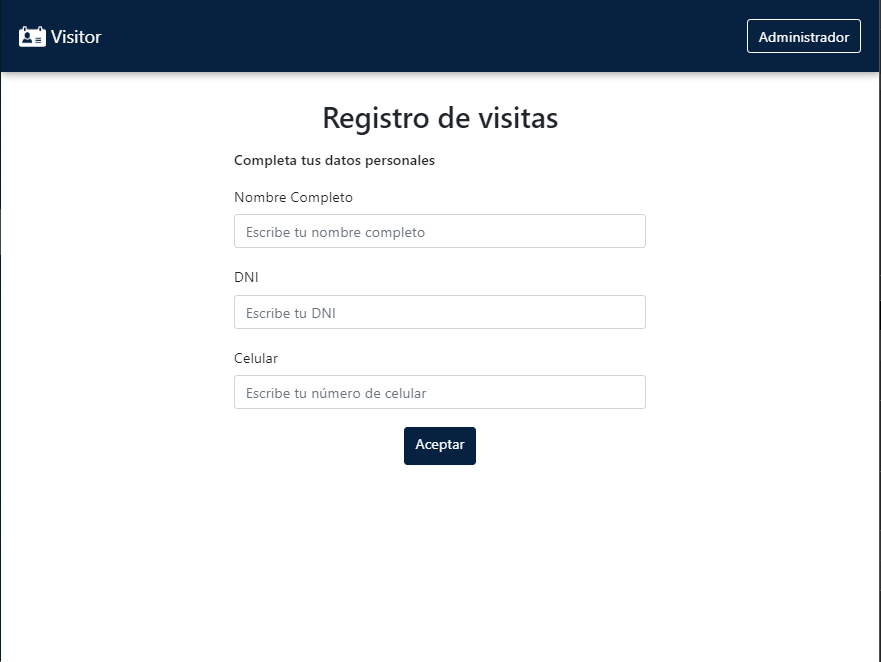
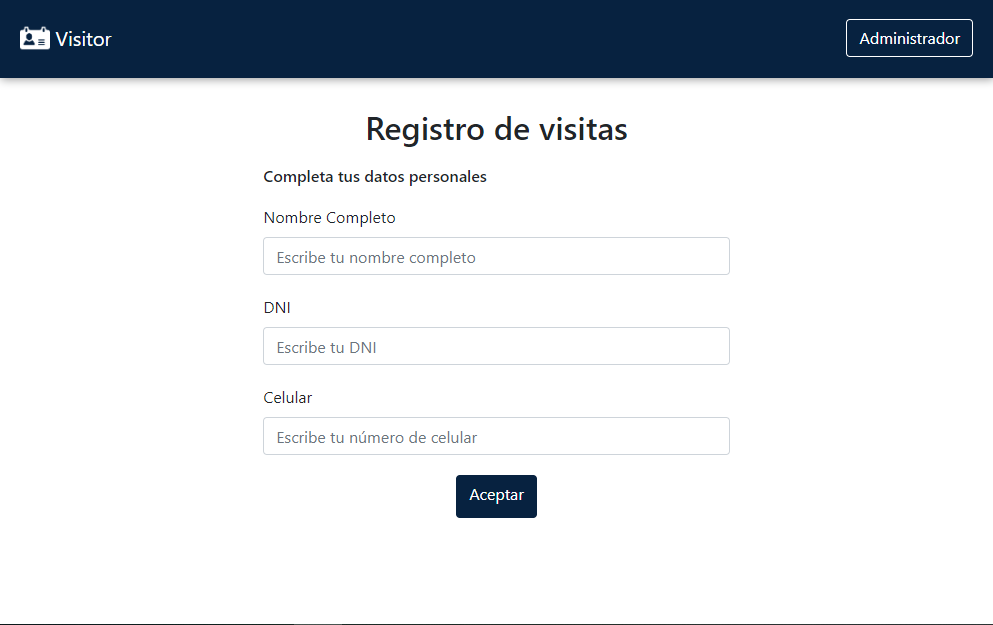
remodelado de portafolio

diff --git a/index.html b/index.html
@@ -14,6 +14,7 @@
 </head>
 
 <body>
+	<!-- navbar -->
 	<div class="navbar-fixed">
 		<nav>
 			<div class="nav-wrapper">
@@ -29,7 +30,7 @@
 	</div>
 
 	<!-- version mobile -->
-	<ul class="sidenav" id="mobile-demo">
+	<ul class="sidenav blue-grey darken-2 center" id="mobile-demo">
 		<a href="#!" class="brand-logo-mobile"><img class="img-logo-mobile" src="usb.png" alt=""></a>
 		<h4>Anaflavia</h4>
 		<li><a href="#portfolio">Portafolio</a></li>
@@ -38,41 +39,52 @@
 	</ul>
 
 	<header>
-		<div class="parallax-container">
+		<div class="background-main">
+			<!-- <div class=""></div>
+					<h1>ANAFLAVIA</h1>
+					<h2>Front-end Developer</h2>
+				</div> -->
+		</div>
+		<!-- <div class="parallax-container">
 			<div class="presentation">
 				<h1>ANAFLAVIA</h1>
 				<h2>Front-end Developer</h2>
 			</div>
-			<div class="parallax"> <img src="assets/background/business.jpeg"></div>
-		</div>
+			<div class="parallax"> <img src="https://user-images.githubusercontent.com/15807118/45848094-d6674600-bcf2-11e8-8787-25df72d563ce.jpg"></div>
+		</div> -->
 	</header>
 
-	<aside class="secondary-color" id="portfolio">
-		<div class="title container">
-			<h1>Portafolio</h1>
+	<section id="portfolio">
+		<div class="container">
+			<h2>Portafolio</h2>
 		</div>
 		<!-- salutem -->
-		<div class="container proy row">
-			<div class="content-img-proy col s6">
-				<img class="screen-mobile" src="assets/projectsindevices/salutem-mobile.png" alt="salutem">
+		<div class=" proy row">
+			<div class="col s12 l7 center">
+				<img class="screen-desktop" src="assets/projectsindevices/anaflavia.png" alt="salutem">
+				<ul class="pagination">
+					<li class="spaces-left">Firebase</li>
+					<li class="spaces-left">Materialize</li>
+					<li class="spaces-left">Javascript</li>
+				</ul>
 			</div>
-			<div class="description-proy">
+			<div class="col s12 l5 center">
 				<h4>Salutem</h4>
 				<h5>Una red social que nace de la necesidad de compartir experiencias sobre temas salud.
 				</h5>
 				<div class="buttons-show-proy">
-					<button class="btn btn-large waves-effect waves-light primary-color left" type="button" name="action">
+					<button class="btn btn-large waves-effect waves-light bg-primary" type="button" name="action">
 						<i class="material-icons">remove_red_eye</i>
 					</button>
-					<button class="btn btn-large waves-effect waves-light primary-color right" type="button" name="action">
+					<button class="btn btn-large waves-effect waves-light bg-primary" type="button" name="action">
 						<i class="material-icons">code</i>
 					</button>
 				</div>
 			</div>
 		</div>
 		<!-- foodmap -->
-		<div class="container proy row">
-			<div class="content-img-proy col s6">
+		<div class=" proy row">
+			<div class="content-img-proy col s12 l6">
 				<img class="screen-mobile" src="assets/projectsindevices/foodmap-mobile.png" alt="foodmap">
 			</div>
 			<div class="description-proy">
@@ -81,38 +93,38 @@
 					especialidades.
 				</h5>
 				<div class="buttons-show-proy">
-					<button class="btn btn-large waves-effect waves-light primary-color" type="button" name="action">
+					<button class="btn btn-large waves-effect waves-light bg-primary" type="button" name="action">
 						<i class="material-icons">remove_red_eye</i>
 					</button>
-					<button class="btn btn-large waves-effect waves-light primary-color" type="button" name="action">
+					<button class="btn btn-large waves-effect waves-light bg-primary" type="button" name="action">
 						<i class="material-icons">code</i>
 					</button>
 				</div>
 			</div>
 		</div>
 		<!-- visitor -->
-		<div class="container proy row">
-			<div class="content-img-proy col s6">
-				<img class="screen-mobile" src="assets/projectsindevices/visitor-mobile.png" alt="visitor">
+		<div class=" proy row">
+			<div class="content-img-proy col s12 l6">
+				<img class="screen-desktop" src="assets/projectsindevices/visitor-desktop.png" alt="visitor">
 			</div>
 			<div class="description-proy">
 				<h4>Visitor</h4>
 				<h5>Registro de Visitantes para la recepción de Comunal Coworking de Barranco.
 				</h5>
 				<div class="buttons-show-proy">
-					<button class="btn btn-large waves-effect waves-light primary-color" type="button" name="action">
+					<button class="btn btn-large waves-effect waves-light bg-primary" type="button" name="action">
 						<i class="material-icons">remove_red_eye</i>
 					</button>
-					<button class="btn btn-large waves-effect waves-light primary-color" type="button" name="action">
+					<button class="btn btn-large waves-effect waves-light bg-primary" type="button" name="action">
 						<i class="material-icons">code</i>
 					</button>
 				</div>
 			</div>
 		</div>
 		<!-- edutic -->
-		<div class="container proy row">
-			<div class="content-img-proy col s6">
-				<img class="screen-mobile" src="assets/projectsindevices/edutic-mobile.png" alt="">
+		<div class=" proy row">
+			<div class="content-img-proy col s12 l6">
+				<img class="screen-mobile" src="assets/projectsindevices/edutic-mobile.png" alt="edutic">
 			</div>
 			<div class="description-proy">
 				<h4>EduTic</h4>
@@ -120,7 +132,7 @@
 					y tendencias.
 				</h5>
 				<div class="buttons-show-proy">
-					<button class="btn btn-large waves-effect waves-light primary-color" type="button" name="action">
+					<button class="btn btn-large waves-effect waves-light bg-primary" type="button" name="action">
 						<i class="material-icons">remove_red_eye</i>
 					</button>
 					<button class="btn btn-large waves-effect waves-light primary-color" type="button" name="action">
@@ -129,11 +141,37 @@
 				</div>
 			</div>
 		</div>
-	</aside>
+	</section>
 
-	<aside id="skills">
-
-	</aside>
+	<section class="bg-secondary" id="skills">
+		<div class="list-skills container">
+			<h2>Habilidades</h2>
+			<div class="unity">
+				<img src="assets/icons-skills/handshake.png" alt="">
+				<h5>Compromiso</h5>
+			</div>
+			<div class="unity">
+				<img src="assets/icons-skills/meeting.png" alt="">
+				<h5>Trabajo en Equipo</h5>
+			</div>
+			<div class="unity">
+				<img src="assets/icons-skills/decision-making.png" alt="">
+				<h5>Adaptabilidad</h5>
+			</div>
+			<div class="unity">
+				<img src="assets/icons-skills/worldwide.png" alt="">
+				<h5>Autoaprendizaje</h5>
+			</div>
+			<div class="unity">
+				<img src="assets/icons-skills/clock.png" alt="">
+				<h5>Puntualidad</h5>
+			</div>
+			<div class="unity">
+				<img src="assets/icons-skills/report.png" alt="">
+				<h5>Responsabilidad</h5>
+			</div>
+		</div>
+	</section>
 
 
 	<script src="js/materialize.min.js"></script>

diff --git a/style.css b/style.css
@@ -1,23 +1,29 @@
 /* ----------colores------------ */
-.primary-color {
+.bg-primary {
 	background-color: #495a66;
 }
-.secondary-color {
-	background-color: #809eb2;
+.bg-secondary {
+	/* background-color: #809eb2; */
+	background-color: #e2e2e2;
 }
+
+section[class^="bg"] {
+	padding: 42px 0;
+}
+
+
 
 /*------- section navbar----------- */
 .brand-logo {
 	font-size: 4.5rem !important;
 	font-weight: bold !important;
 	font-family: Lato;
-	margin-left: 30px;
 }
 .nav-items {
 	font-size: 1.5rem !important;
 }
 .img-logo-nav {
-	width: 12%;
+	width: 50px;
 }
 
 /* navbar-mobile */
@@ -33,6 +39,14 @@ ul h4 {
 }
 
 /* ---------section header----------- */
+.background-main {
+	background-image: url('https://user-images.githubusercontent.com/15807118/45848094-d6674600-bcf2-11e8-8787-25df72d563ce.jpg');
+	background-repeat: no-repeat;
+	background-size: cover;
+	background-position: center center;
+	height: 100vh;
+}
+
 .presentation {
 	font-family: Lato;
 	color: white;
@@ -46,9 +60,9 @@ ul h4 {
 }
 
 /* ----- section portfolio-------- */
-.title {
+/* .title {
 	margin-top: -50px;
-}
+} */
 .screen-mobile {
 	width: 60%;
 }
@@ -58,9 +72,15 @@ ul h4 {
 .proy {
 	text-align: justify;
 }
+.spaces-left {
+	margin: 0 5px;
+	font-style: italic;
+}
 
 /* ------------section skills---------- */
-
+.unity {
+	color: #495a66;
+}
 
 
 
